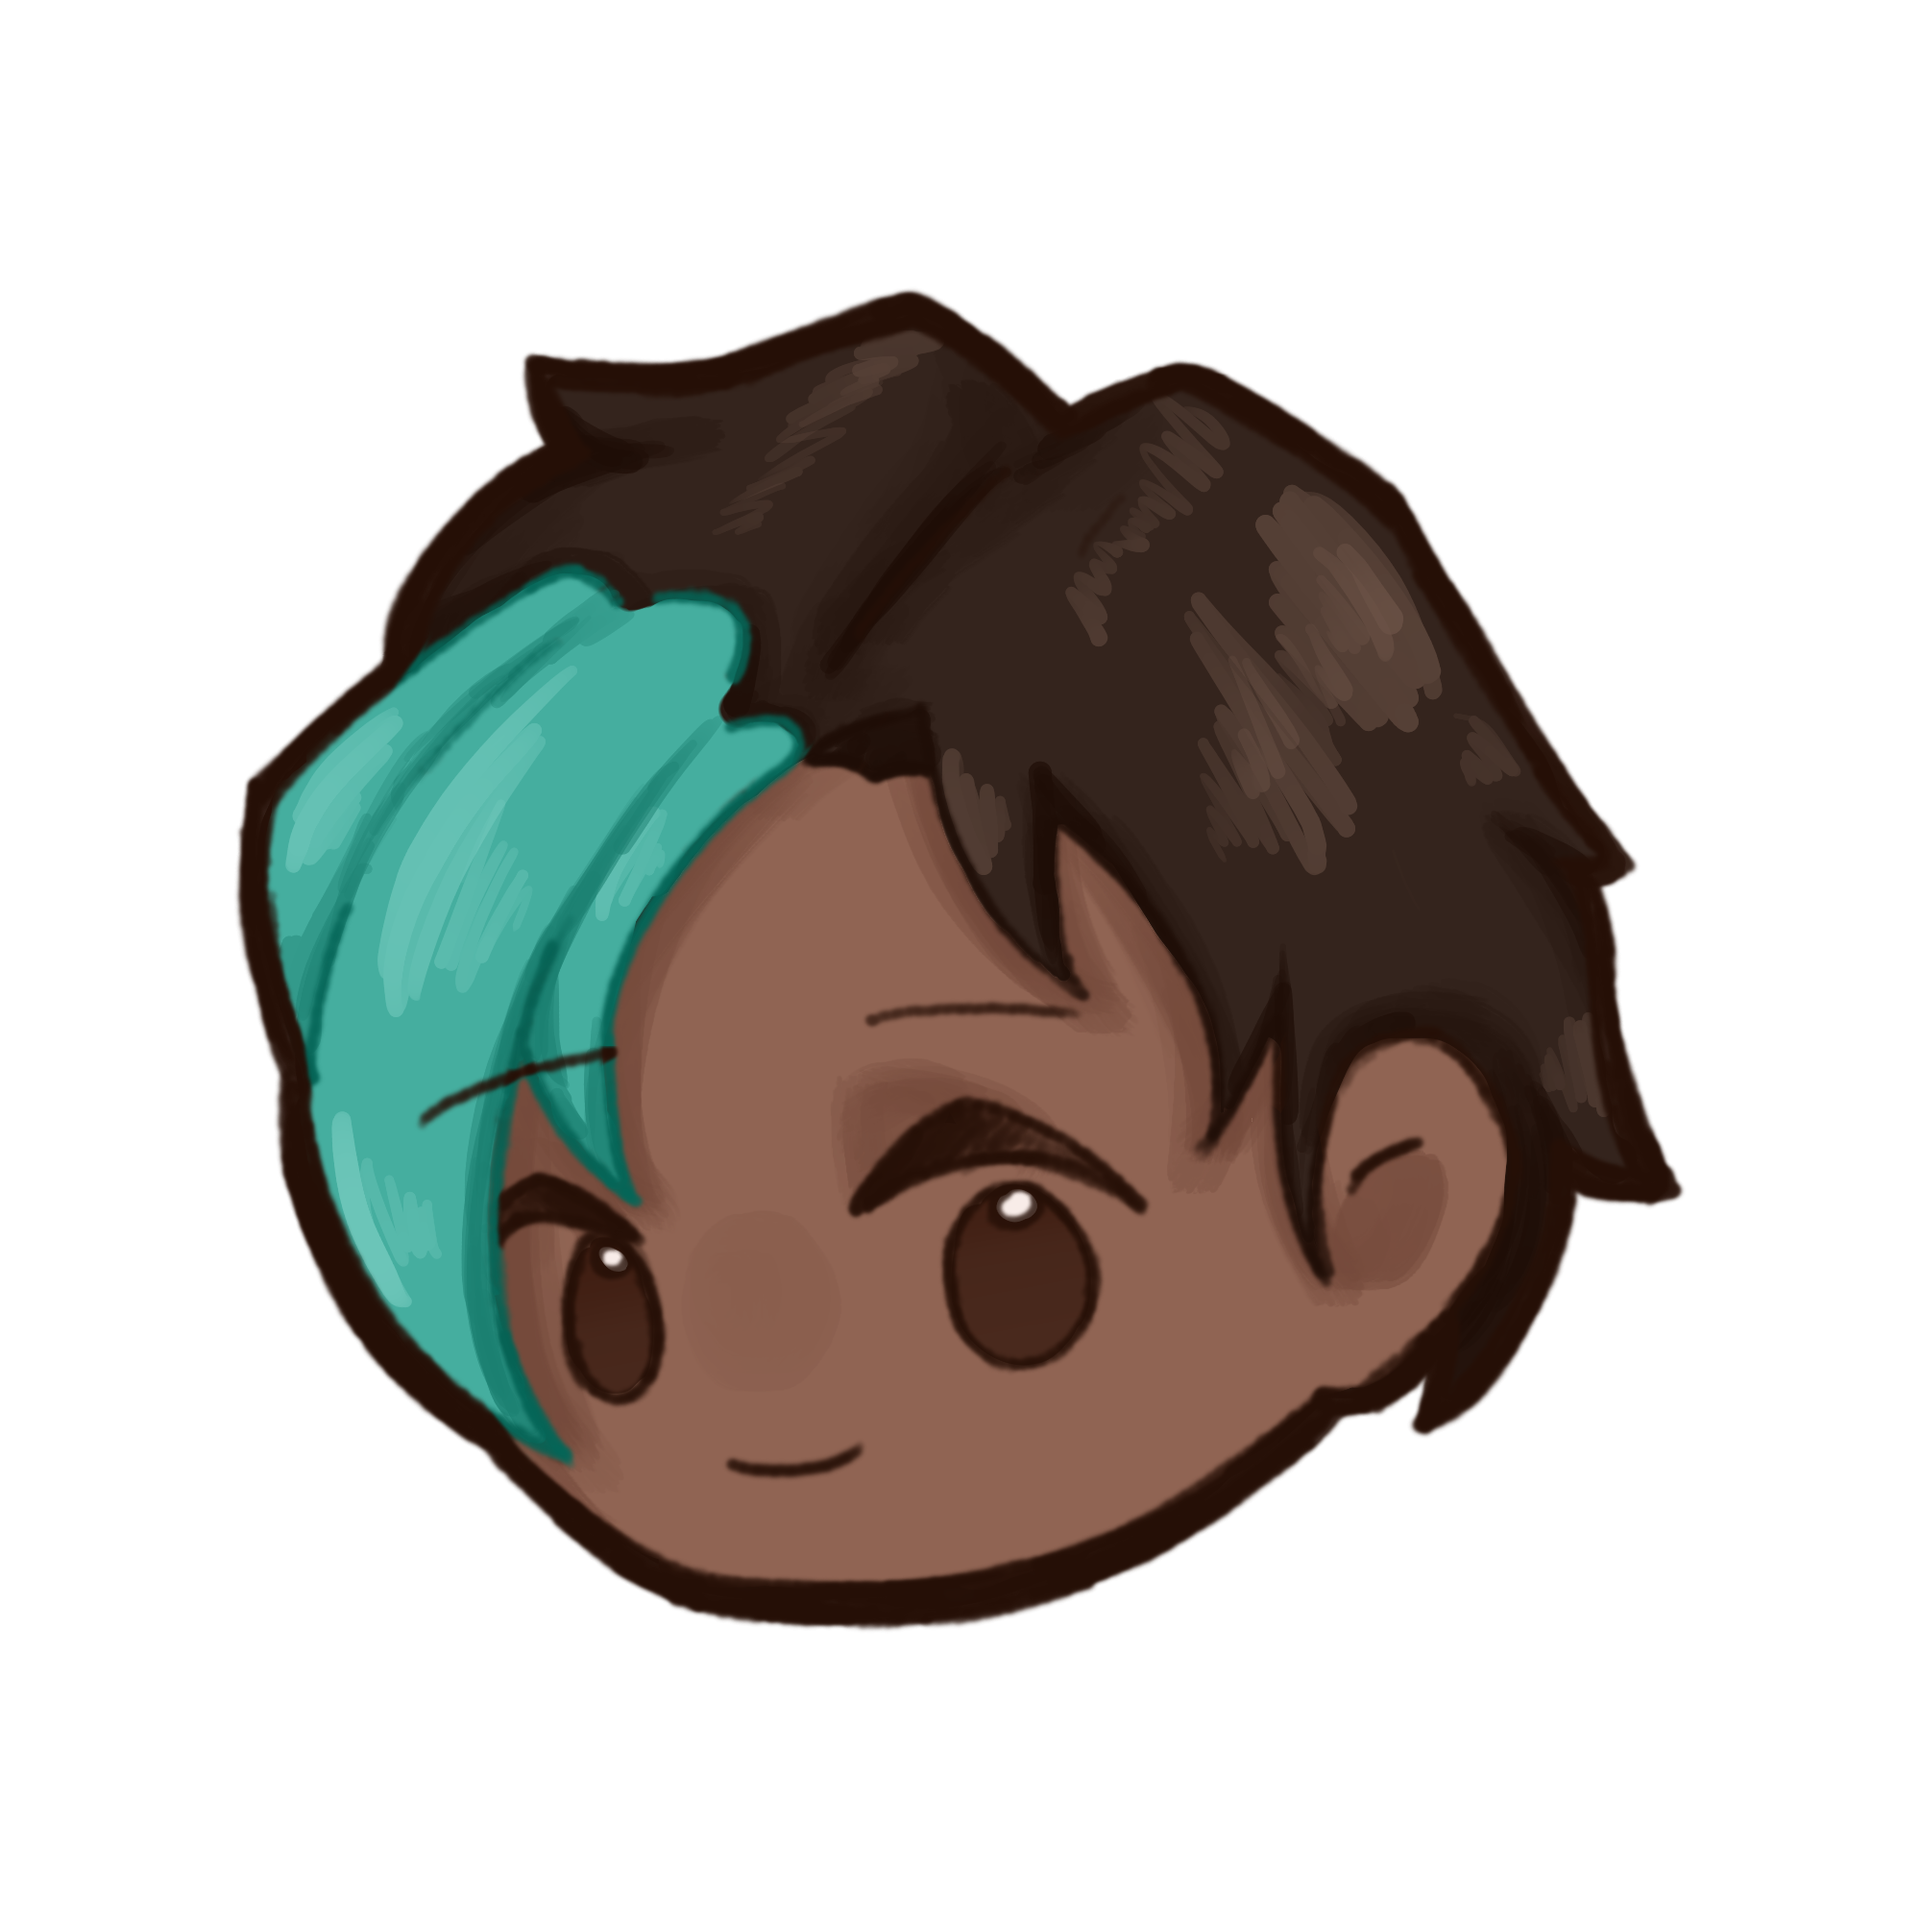
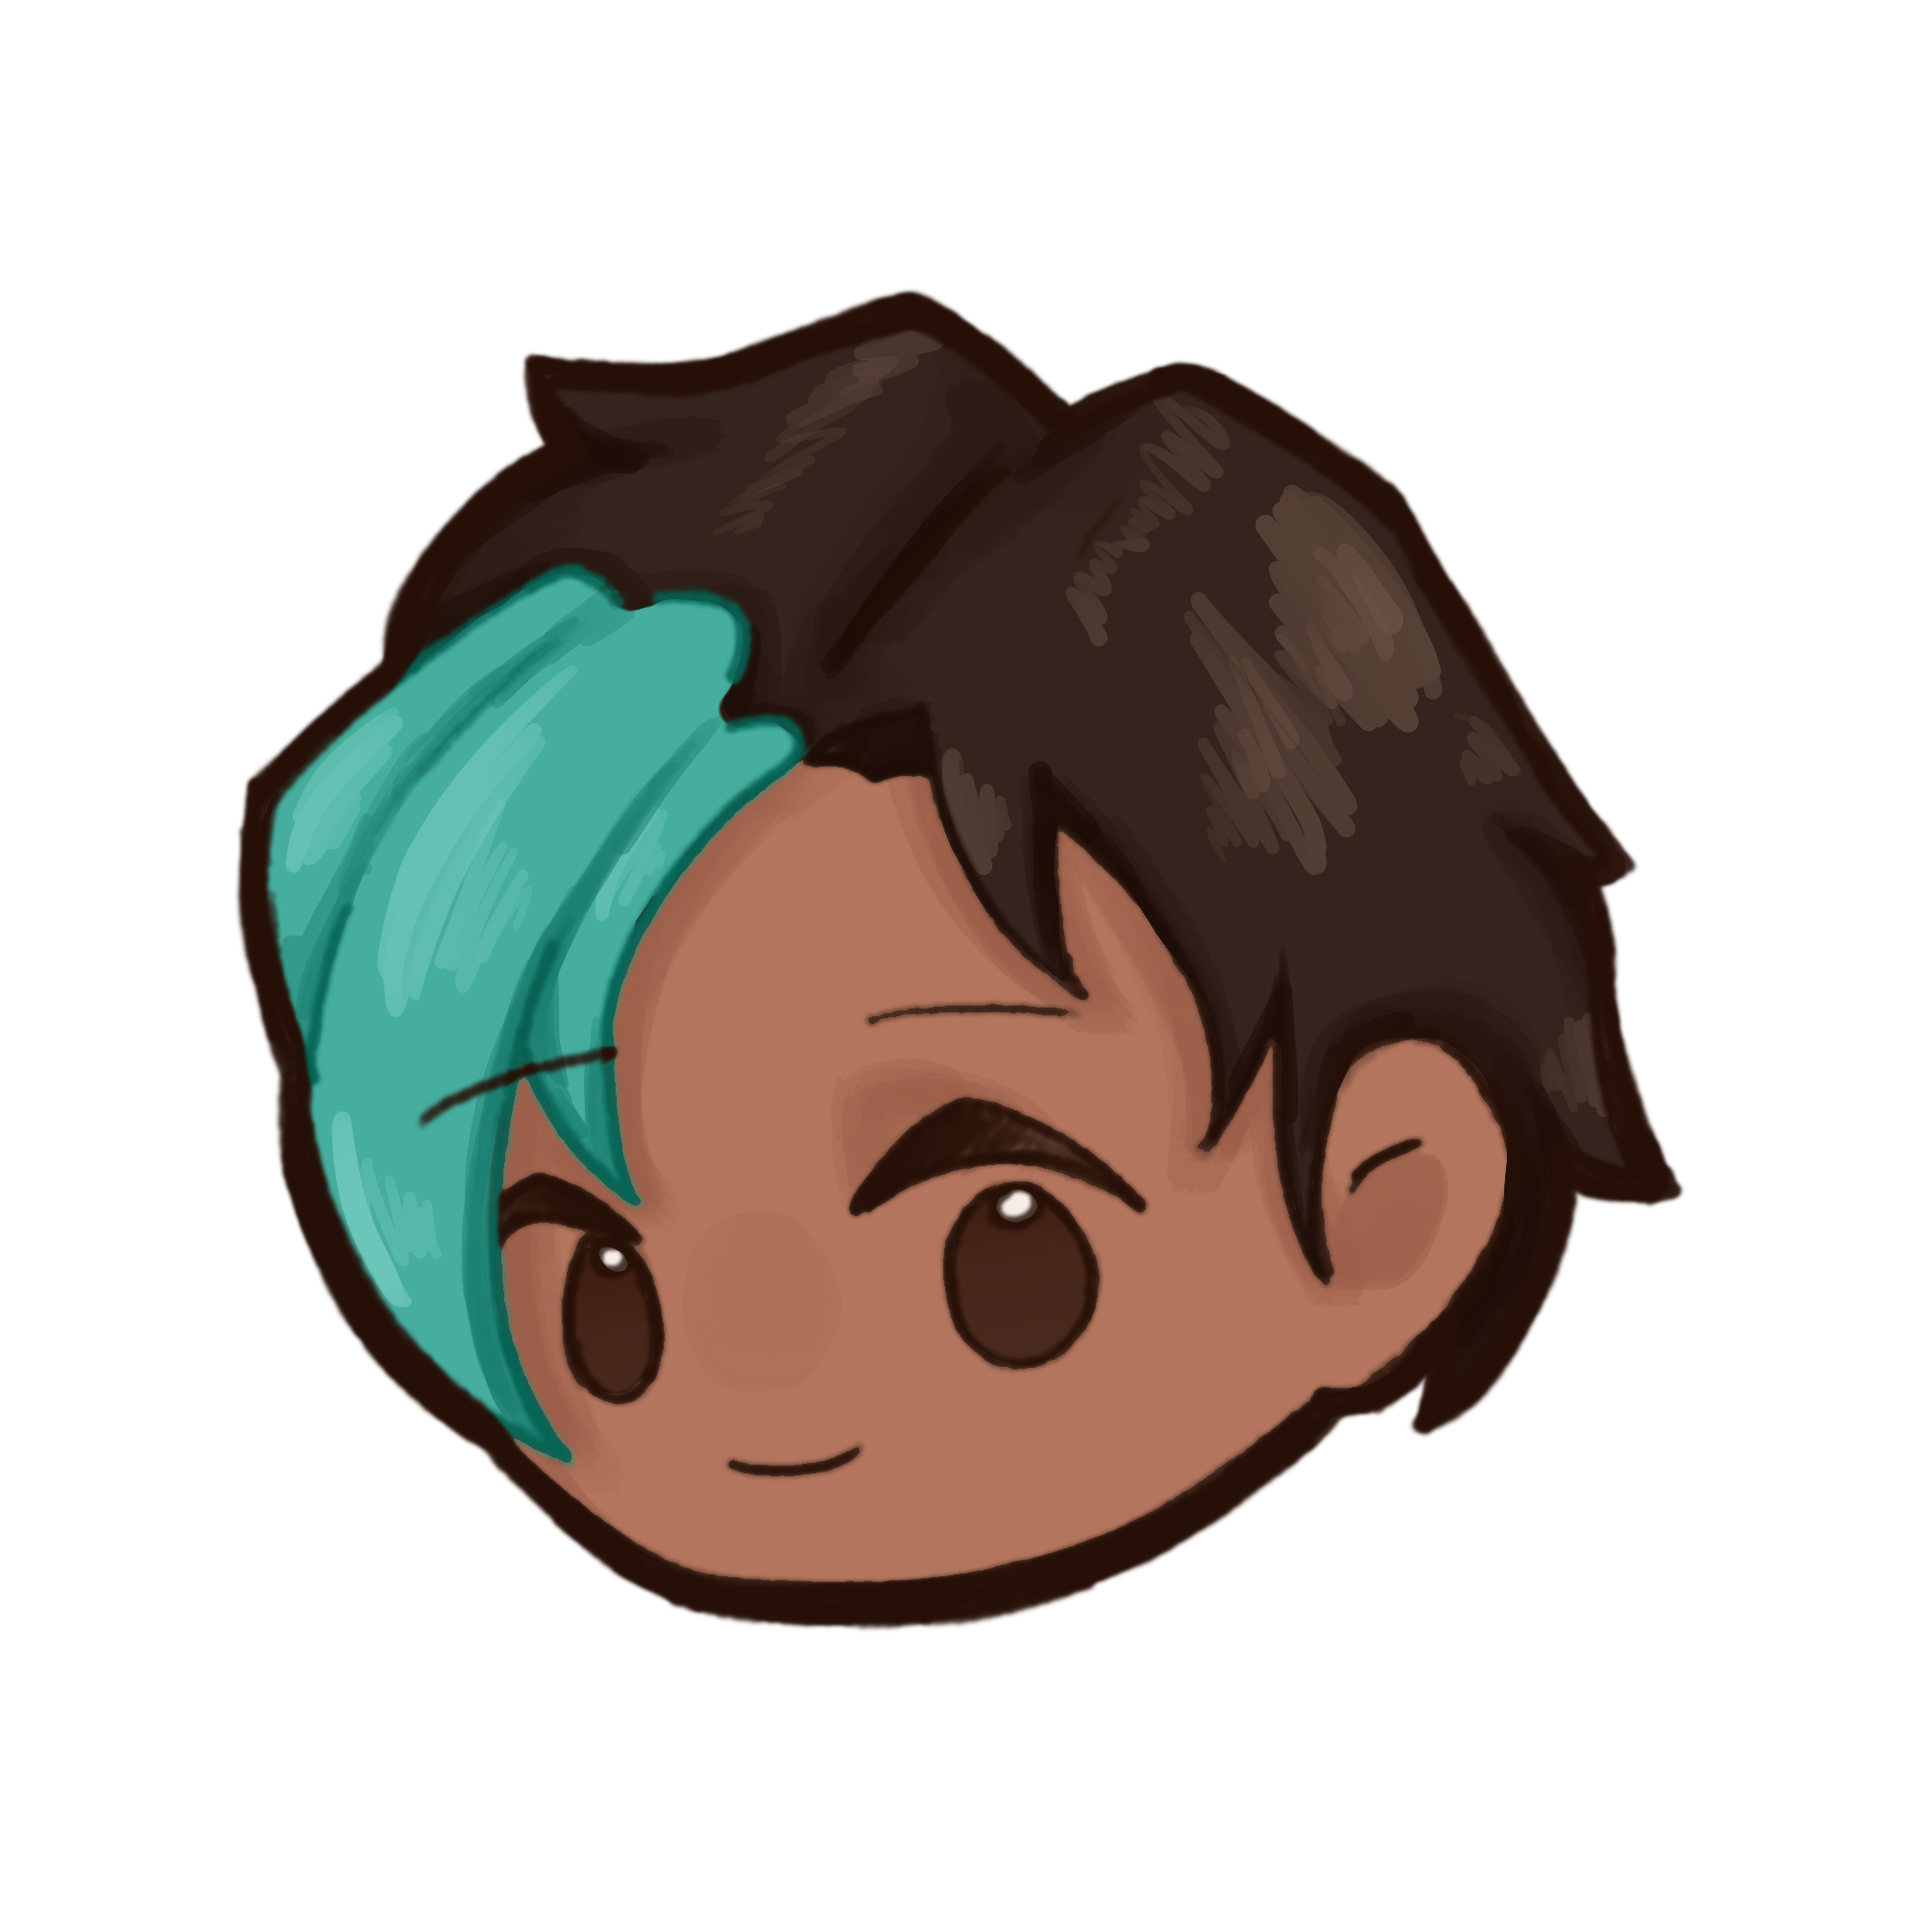
adjust blu's skin tone

Changed region(s): [[0.248, 0.372, 0.806, 0.837]]

diff --git a/error.vue b/error.vue
@@ -30,7 +30,7 @@
         meta: [
             { 
                 property: 'og:title', 
-                content: `${route.meta.title} - CrunchMunch Creations` 
+                content: `${route.meta.name} - CrunchMunch Creations` 
             },
             {
                 name: 'description',
